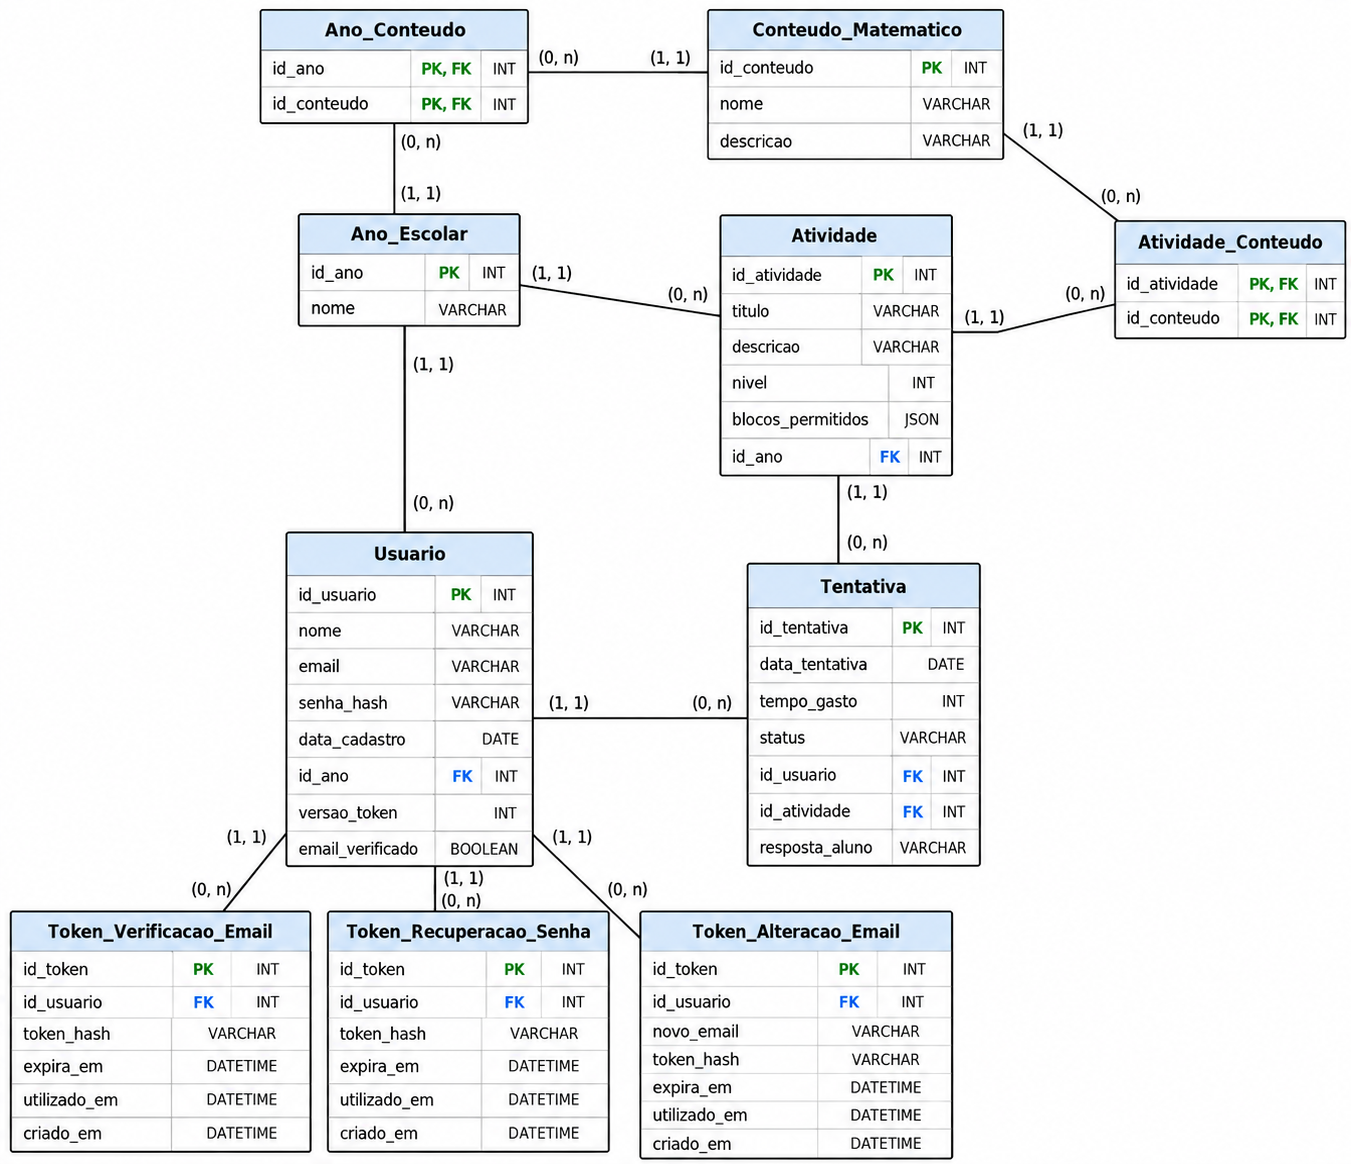
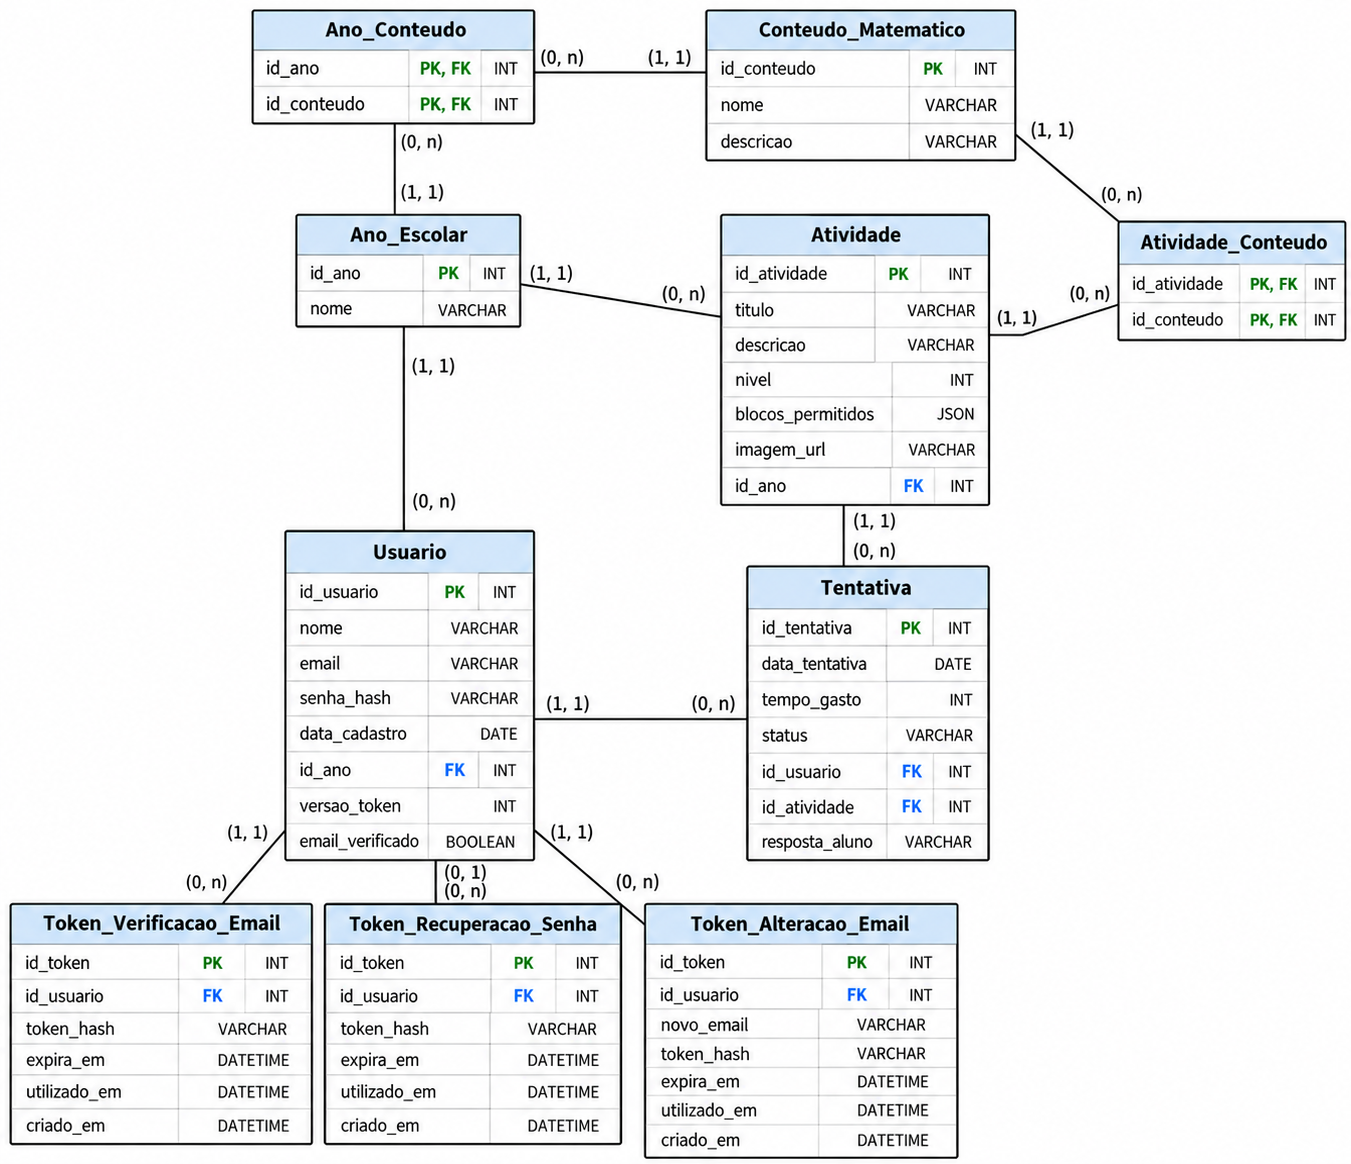
feat: adicionar suporte a imagens opcionais nas atividades

diff --git a/frontend/src/pages/ResolverAtividade.jsx b/frontend/src/pages/ResolverAtividade.jsx
@@ -100,9 +100,19 @@ function ResolverAtividade({ usuario, atividade, onVoltar }) {
                                 {atividade.descricao}
                             </p>
 
+                            {atividade.imagem_url && (
+                                <img
+                                    src={atividade.imagem_url}
+                                    alt={`Ilustração da atividade: ${atividade.titulo}`}
+                                    className="resolucao-imagem"
+                                    loading="lazy"
+                                />
+                            )}
+
                             <span className="resolucao-nivel">
                                 Nível: {atividade.nivel}
                             </span>
+
                         </section>
 
                         <section

diff --git a/frontend/src/App.css b/frontend/src/App.css
@@ -1756,6 +1756,15 @@ RESOLUÇÃO DE ATIVIDADES
     line-height: 1.7;
 }
 
+.resolucao-imagem {
+    display: block;
+    width: 100%;
+    max-height: 280px;
+    object-fit: contain;
+    margin: 16px 0;
+    border-radius: 12px;
+}
+
 .resolucao-nivel {
     display: inline-block;
     padding: 8px 13px;
@@ -1992,7 +2001,7 @@ RESOLUÇÃO DE ATIVIDADES
 
 
 /* ========================================
-   MEU PROGRESSO - MATELÓGICA
+    MEU PROGRESSO - MATELÓGICA
 ======================================== */
 
 .pagina-progresso {

diff --git a/backend/app/schemas/atividade.py b/backend/app/schemas/atividade.py
@@ -10,6 +10,7 @@ class AtividadeCreate(BaseModel):
     descricao: str
     nivel: str
     resposta_esperada: str
+    imagem_url: str | None = None
     id_ano: int
     blocos_permitidos: list[
         Literal[
@@ -30,6 +31,7 @@ class AtividadeResponse(BaseModel):
     descricao: str
     nivel: str
     resposta_esperada: str | None
+    imagem_url: str | None = None
     id_ano: int
     blocos_permitidos: list[str]
     conteudos: list[ConteudoResponse]

diff --git a/backend/app/routes/atividades.py b/backend/app/routes/atividades.py
@@ -111,6 +111,7 @@ def cadastrar_atividade(
         descricao=dados.descricao,
         nivel=dados.nivel,
         resposta_esperada=dados.resposta_esperada,
+        imagem_url=dados.imagem_url,
         id_ano=dados.id_ano,
         blocos_permitidos=dados.blocos_permitidos
     )

diff --git a/backend/app/models/atividade.py b/backend/app/models/atividade.py
@@ -37,6 +37,11 @@ class Atividade(Base):
         String(255),
         nullable=True
     )
+    
+    imagem_url: Mapped[str | None] = mapped_column(
+        String(500),
+        nullable=True
+    )
 
     blocos_permitidos: Mapped[list[str]] = mapped_column(
         JSON,
